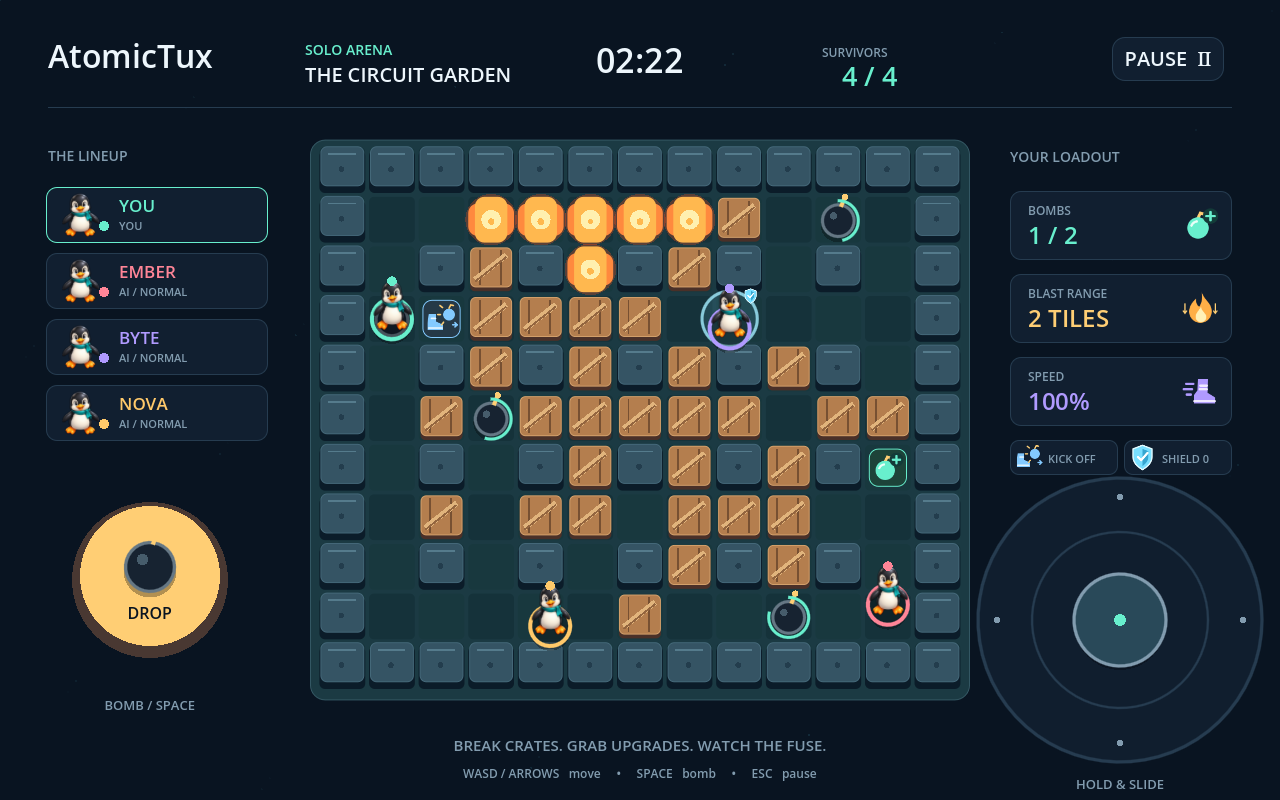
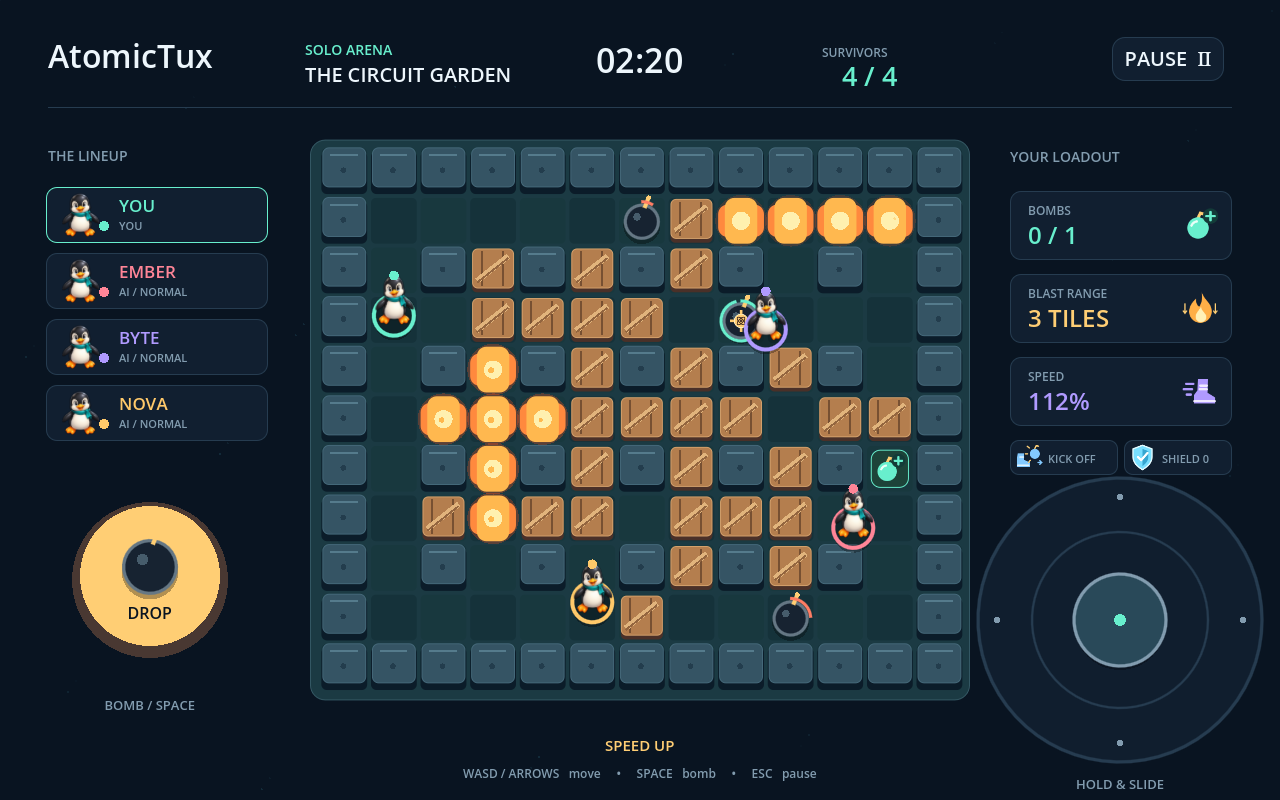
config  upgrade

diff --git a/tests/test_server.py b/tests/test_server.py
@@ -70,6 +70,22 @@ class SimulationTests(unittest.TestCase):
         self.assertTrue(300 < drops.count('speed') < 600)
         self.assertIn('atomic', m.snapshot()['actors'][0])
 
+    def test_configurable_drop_pool(self):
+        from server.simulation import POWER_UPS
+        for enabled in (None, 'shield'):
+            amounts = {k: (4 if k == enabled else 0) for k in POWER_UPS}
+            found = []
+            for seed in range(100):
+                m = Match(seed, {0:'Alice'}, powerup_amounts=amounts)
+                m.grid[1][2] = 2
+                m.place(0)
+                m.bombs[0]['fuse'] = 0
+                m.tick(.01)
+                found.extend(m.pickups.values())
+                self.assertTrue(all(k == enabled for k in m.pickups.values()))
+            if enabled: self.assertTrue(found)
+            else: self.assertFalse(found)
+
     def test_collision_and_capacity(self):
         m=self.fresh()
         m.move(0,(-1,0),.23)
@@ -291,6 +307,48 @@ class LobbyTests(unittest.IsolatedAsyncioTestCase):
     def create(self):
         self.server.command(self.clients[0],dict(type='create',name='Test room',difficulty=0))
         return self.clients[0].room
+
+    async def test_host_powerup_settings(self):
+        from server.simulation import DEFAULT_AMOUNTS
+        r = self.create()
+        owner, guest = self.clients[:2]
+        self.server.command(guest, dict(type='join', room=r.id))
+        self.assertEqual(r.public()['powerup_amounts'], DEFAULT_AMOUNTS)
+        for command in ('powerup_amount', 'reset_powerups'):
+            with self.assertRaises(ValueError):
+                self.server.command(guest, dict(type=command, powerup='bomb', change=1))
+        for change in (True, 1.0, 0, 2, -2, '1', None):
+            with self.assertRaises(ValueError):
+                self.server.command(owner, dict(type='powerup_amount', powerup='bomb', change=change))
+        for kind in ('unknown', [], None):
+            with self.assertRaises(ValueError):
+                self.server.command(owner, dict(type='powerup_amount', powerup=kind, change=1))
+        for _ in range(30): self.server.command(owner, dict(type='powerup_amount', powerup='bomb', change=1))
+        self.assertEqual(r.powerup_amounts['bomb'], 20)
+        for _ in range(30): self.server.command(owner, dict(type='powerup_amount', powerup='speed', change=-1))
+        self.assertEqual(r.powerup_amounts['speed'], 0)
+        expected = r.powerup_amounts.copy()
+        self.server.command(owner, dict(type='start'))
+        self.assertEqual(r.match.powerup_amounts, expected)
+        self.assertEqual(r.match.snapshot()['powerup_amounts'], expected)
+        with self.assertRaises(ValueError): self.server.command(owner, dict(type='reset_powerups'))
+        with self.assertRaises(ValueError): self.server.command(owner, dict(type='powerup_amount', powerup='bomb', change=-1))
+        r.task.cancel()
+        await asyncio.gather(r.task, return_exceptions=True)
+        r.state = 'finished'
+        r.ready = dict.fromkeys(r.members, False)
+        self.server.leave(owner)
+        self.assertEqual(r.owner, guest.id)
+        self.assertEqual(r.powerup_amounts, expected)
+        self.server.command(guest, dict(type='ready'))
+        self.server.command(guest, dict(type='start'))
+        self.assertEqual(r.match.powerup_amounts, expected)
+        r.task.cancel()
+        await asyncio.gather(r.task, return_exceptions=True)
+        r.state = 'finished'
+        self.server.command(guest, dict(type='reset_powerups'))
+        self.assertEqual(r.powerup_amounts, DEFAULT_AMOUNTS)
+        self.assertEqual(r.match.powerup_amounts, expected, 'Previous match owns an independent copy')
 
     async def test_join_start_and_capacity(self):
         r=self.create()

diff --git a/server/server.py b/server/server.py
@@ -20,9 +20,9 @@ import tempfile
 from websockets.asyncio.server import serve
 from websockets.exceptions import ConnectionClosed
 try:
-    from .simulation import Match, DIRS
+    from .simulation import Match, DIRS, DEFAULT_AMOUNTS, MAX_AMOUNT
 except ImportError:
-    from simulation import Match, DIRS
+    from simulation import Match, DIRS, DEFAULT_AMOUNTS, MAX_AMOUNT
 
 LOG = logging.getLogger('atomictux')
 
@@ -87,10 +87,11 @@ class Room:
         self.members, self.ready, self.slots = {owner.id: owner}, {owner.id: True}, {}
         self.state, self.difficulty, self.match = 'waiting', difficulty, None
         self.task, self.round = None, 0
+        self.powerup_amounts = DEFAULT_AMOUNTS.copy()
 
     def public(self):
         return dict(id=self.id, name=self.name, owner=self.owner, state=self.state,
-                    difficulty=self.difficulty, round=self.round,
+                    difficulty=self.difficulty, round=self.round, powerup_amounts=self.powerup_amounts.copy(),
                     players=[dict(id=c.id, name=c.name, ready=self.ready[c.id]) for c in self.members.values()])
 
 class GameServer:
@@ -175,6 +176,20 @@ class GameServer:
             if not room or room.state == 'playing': raise ValueError('The round is still running.')
             room.ready[c.id], room.state = True, 'waiting'
             self.broadcast_room(room)
+        elif kind in ('powerup_amount', 'reset_powerups'):
+            room = c.room
+            if not room or room.owner != c.id: raise ValueError('Only the game owner can change power-ups.')
+            if room.state == 'playing': raise ValueError('Power-ups cannot change during a round.')
+            if kind == 'reset_powerups':
+                room.powerup_amounts = DEFAULT_AMOUNTS.copy()
+            else:
+                powerup, change = msg.get('powerup'), msg.get('change')
+                if not isinstance(powerup, str) or powerup not in DEFAULT_AMOUNTS:
+                    raise ValueError('Unknown power-up.')
+                if type(change) is not int or change not in (-1, 1):
+                    raise ValueError('Power-up change must be -1 or 1.')
+                room.powerup_amounts[powerup] = max(0, min(MAX_AMOUNT, room.powerup_amounts[powerup] + change))
+            self.broadcast_room(room)
         elif kind == 'start':
             room = c.room
             if not room or room.owner != c.id: raise ValueError('Only the game owner can start.')
@@ -182,7 +197,7 @@ class GameServer:
             if not all(room.ready.values()): raise ValueError('Waiting for players to choose another round or leave.')
             room.slots = {client_id: i for i,client_id in enumerate(room.members)}
             room.match = Match(secrets.randbits(32), {room.slots[p.id]: p.name for p in room.members.values()},
-                               room.difficulty, self.round_seconds)
+                               room.difficulty, self.round_seconds, room.powerup_amounts)
             room.state, room.round = 'playing', room.round+1
             for p in room.members.values():
                 p.direction, p.bomb = (0,0), False

diff --git a/server/simulation.py b/server/simulation.py
@@ -6,6 +6,8 @@ from collections import deque
 DIRS = ((0, -1), (1, 0), (0, 1), (-1, 0))
 POWER_UPS = ("bomb", "fire", "speed", "kick", "shield", "atomic")
 DROP_WEIGHTS = (10, 3, 1, 3, 3, 2)
+DEFAULT_AMOUNTS = dict(zip(POWER_UPS, (6, 4, 2, 2, 4, 2)))
+MAX_AMOUNT = 20
 ATOMIC_POWER = -1
 FUSE, FIRE_TIME, KICK_STEP, SHIELD_GRACE = 3.2, .65, .09, .75
 ACTOR_RADIUS, BOMB_RADIUS, MOTION_STEP = .28, .30, .04
@@ -20,7 +22,9 @@ def add(a, b, n=1):
     return (a[0] + b[0] * n, a[1] + b[1] * n)
 
 class Match:
-    def __init__(self, seed, players, difficulty=1, duration=150):
+    def __init__(self, seed, players, difficulty=1, duration=150, powerup_amounts=None):
+        self.powerup_amounts = dict(zip(POWER_UPS, DROP_WEIGHTS)) if powerup_amounts is None else dict(powerup_amounts)
+        self.drop_weights = tuple(self.powerup_amounts[k] for k in POWER_UPS)
         self.rng = random.Random(seed)
         self.difficulty = difficulty
         self.humans = set(players)
@@ -237,7 +241,8 @@ class Match:
                 self.pickups.pop(c, None)
                 if self.tile(c) == 2:
                     self.grid[c[1]][c[0]] = 0
-                    if self.rng.random() < .38: self.pickups[c] = self.rng.choices(POWER_UPS, weights=DROP_WEIGHTS, k=1)[0]
+                    if self.rng.random() < .38 and any(self.drop_weights):
+                        self.pickups[c] = self.rng.choices(POWER_UPS, weights=self.drop_weights, k=1)[0]
             self.events.append(dict(type='explosion', cells=cells))
         self.update_passers()
         for a in self.actors:
@@ -332,7 +337,7 @@ class Match:
             if dt - used > .000001: self.bot(actor_id, dt - used)
 
     def snapshot(self):
-        return dict(grid=self.grid, actors=self.actors, bombs=self.bombs,
+        return dict(grid=self.grid, actors=self.actors, bombs=self.bombs, powerup_amounts=self.powerup_amounts,
                     flames=[dict(cell=c, time=t) for c,t in self.flames.items()],
                     pickups=[dict(cell=c, kind=k) for c,k in self.pickups.items()],
                     remaining=self.remaining, elapsed=self.elapsed, finished=self.finished,

diff --git a/docs/MULTIPLAYER.md b/docs/MULTIPLAYER.md
@@ -197,6 +197,11 @@ If startup fails, inspect `systemctl --user status` and `journalctl --user`:
    names, not accounts, and duplicate display names are allowed.
 5. The waiting room shows names, the owner, and the player count. The owner can
    start with 1–4 humans; remaining slots become AI at the chosen difficulty.
+   Before starting, the owner can adjust the six power-up amounts using **− / +**
+   (0–20) or **Reset Power-up Defaults**. Defaults are extra bomb 6, blast range 4,
+   speed 2, kicking 2, shield 4, atomic 2. Zero disables a type; other values set
+   relative frequency. Everyone sees the changes. Values persist for rematches
+   and ownership transfers, but each new room starts with the defaults.
 6. After the round, select **Another Round** to stay in the same room, or **Game List**
    to leave. The owner can start the rematch once remaining players have chosen
    another round; undecided players are shown in the waiting room.
@@ -312,7 +317,15 @@ Reference APIs: [Godot TLSOptions](https://docs.godotengine.org/en/4.6/classes/c
 [websockets 14.1 asyncio server](https://websockets.readthedocs.io/en/14.1/reference/asyncio/server.html).
 
 The client and server must both be updated for atomic bombs and the slower pace.
-The server uses weighted drops (bomb 10, fire 3, speed 1, kick 3, shield 3, atomic 2).
+The server uses the room owner’s configured drop amounts (defaults: bomb 6, fire 4,
+speed 2, kick 2, shield 4, atomic 2). All-zero settings disable pickup drops.
 Atomic pickups arm the next successful placement once; its blast crosses the full
 row and column through obstacles, without destroying permanent walls. Restart
 the server after deploying `server/simulation.py`; existing rooms are not preserved.
+
+Room messages include `powerup_amounts`. The owner can send `powerup_amount`
+with a known `powerup` key and an integer `change` of -1 or 1, or `reset_powerups`.
+The server validates ownership, disallows changes during play, clamps amounts to
+0–20, and broadcasts the resulting room. Each match copies its room’s amounts
+into simulation state, which is also included in snapshots. Update and restart
+the server to enable host controls; clients disable these controls on older servers.

diff --git a/README.md b/README.md
@@ -14,9 +14,10 @@ one very good reason to keep moving.
 ## Small penguins. Plenty of ways to play.
 
 - **Make it your match.** Face one to three AI opponents, choose Relaxed, Normal,
-  or Fierce strength, and pick which power-ups can appear.
+  or Fierce strength, and adjust how often each power-up appears.
 - **Bring your friends.** Create or join online rooms for up to four players.
-  Start when you're ready; bots fill the spare seats. Stay for a rematch.
+  Tune the power-up amounts, then start when you're ready; bots fill the spare seats.
+  Stay for a rematch.
 - **Watch the chaos.** Demo mode pits four AI penguins against each other with
   every power-up available.
 - **Keep your thumbs in the action.** Smooth movement, a large right-hand
@@ -32,7 +33,7 @@ one very good reason to keep moving.
 
 | Power-up | Your advantage |
 | --- | --- |
-| **Extra bomb** | Plant more bombs at once. The most common pickup. |
+| **Extra bomb** | Plant more bombs at once. The most common pickup by default. |
 | **Blast range** | Reach farther down the corridors. |
 | **Speed** | Get a little more distance between you and the fuse. |
 | **Bomb kicking** | Send bombs sliding and bouncing through the arena. |
@@ -42,7 +43,7 @@ one very good reason to keep moving.
 Your own bombs are dangerous too. Ordinary blasts stop at walls and crates;
 atomic blasts pass through them while permanent walls stay intact.
 
-![Single-player setup with opponent count, difficulty, and six individual power-up switches](docs/screenshots/single-player.png)
+![Single-player setup with opponent count, difficulty, and six individual power-up amount controls](docs/screenshots/single-player.png)
 
 *Tune your next round, from a simple duel to a fully powered four-penguin battle.*
 

diff --git a/docs/INSTALL.md b/docs/INSTALL.md
@@ -16,6 +16,12 @@ are relative to your checkout; no particular username or checkout location is re
 5. Choose **Single Player** to configure a match, **Multi Player** to join a server,
    or **Demo** to watch four AI penguins compete.
 
+Single Player offers **− / +** controls for each power-up (0–20). Defaults are
+extra bomb **6**, blast range **4**, speed **2**, bomb kicking **2**, shield **4**,
+and atomic bomb **2**. Amounts are relative drop frequencies: 6 is three times
+as likely as 2 when a pickup appears. Zero disables a type. **Reset Power-up
+Defaults** restores these values; your choices are saved between launches.
+
 Keep the same signing key for updates. If Android reports a signing conflict,
 use an APK signed with the original key. Uninstalling the old app also allows a
 fresh install, but removes its saved settings and server trust.
@@ -127,7 +133,9 @@ secure WebSocket gameplay; you enter the IP and port separately in the game.
    operator's fingerprint, then choose **Trust & Connect**. Self-signed
    certificates are supported through this explicit trust step.
 3. Join a waiting game or create one. The owner can start whenever ready;
-   unused slots are filled with AI.
+   unused slots are filled with AI. Hosts can configure the same six power-up
+   amounts on the waiting page; guests can view them. These room settings
+   persist for rematches. Update the server if the controls are disabled.
 4. After a round, choose **Another Round** or return to **Game List**.
 
 Server availability depends on its operator. For your own server, see the

diff --git a/docs/DEVELOPMENT.md b/docs/DEVELOPMENT.md
@@ -146,7 +146,13 @@ every 0.09 seconds. AI movement and Relaxed bomb delays are slower too.
 
 Crates retain a 38% pickup chance. With all types enabled, drop weights are
 extra bomb 10, blast range 3, speed 1, kick 3, shield 3, atomic 2: about 45%
-extra bombs and 5% speed. Disabled solo types are removed before weighting.
+extra bombs and 5% speed in demo play. Solo and multiplayer hosts use configurable amounts
+from 0–20, with defaults bomb 6, fire 4, speed 2, kick 2, shield 4, atomic 2.
+These are relative weights, not guaranteed counts per round. Zero-weight types
+are excluded; all zero disables drops. The 38% per-crate chance stays unchanged.
+Solo amounts are saved separately. Multiplayer rooms keep their own amounts
+across rematches and ownership changes; the server enforces host-only edits.
+Existing enabled/disabled settings migrate to default amounts or zero.
 
 The gold atom-and-cross pickup arms **one atomic bomb**. Your next successful
 bomb placement consumes it; failed placements do not. Multiple pickups do not
